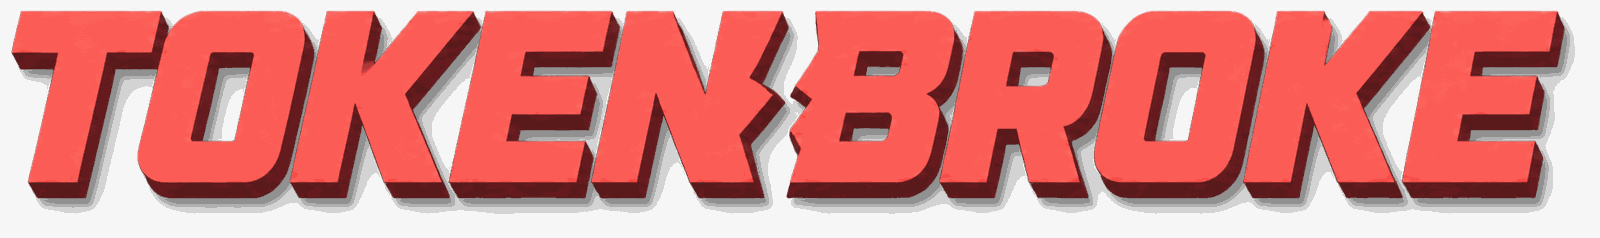
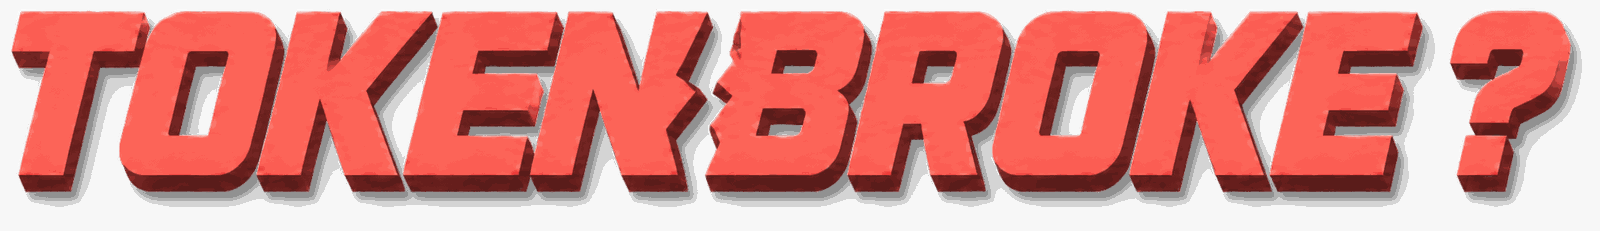
feat(web): jigsaw wordmark with baked question mark
- v2 artwork (crack + ? included) replaces the CSS-recreated question mark
- mark grown to min(96vw,52rem); overlap tuned so ARE YOU stays legible
- count line pulled snug under the title

diff --git a/apps/web/app/page.tsx b/apps/web/app/page.tsx
@@ -95,27 +95,11 @@ export default async function Home() {
               ARE YOU
             </span>
             {/* The wordmark rides over ARE YOU, tilted like a slapped-on sticker. */}
-            <span className="relative z-10 -mt-3 flex w-[min(90vw,46rem)] rotate-[-3.5deg] items-center sm:-mt-5">
-              <Image
-                src={wordmark}
-                alt="TOKENBROKE?"
-                priority
-                className="h-auto w-full min-w-0 flex-1"
-              />
-              <span
-                aria-hidden
-                className="display -ml-[0.14em] font-black leading-none"
-                style={{
-                  fontSize: "min(17vw, 8rem)",
-                  color: "#f85850",
-                  textShadow: "-0.05em 0.055em 0 #601818",
-                }}
-              >
-                ?
-              </span>
+            <span className="relative z-10 -mt-2 block w-[min(96vw,52rem)] rotate-[-3.5deg] sm:-mt-4">
+              <Image src={wordmark} alt="TOKENBROKE?" priority className="h-auto w-full" />
             </span>
           </h1>
-          <p className="display mt-5 flex flex-wrap items-center justify-center gap-x-3 gap-y-2 text-2xl font-black tracking-tight text-paper sm:text-4xl">
+          <p className="display mt-1 flex flex-wrap items-center justify-center gap-x-3 gap-y-2 text-2xl font-black tracking-tight text-paper sm:mt-2 sm:text-4xl">
             <FlapDigits
               value={movement.devsOnRecord.toLocaleString("en-US")}
               label={`${movement.devsOnRecord.toLocaleString("en-US")} developers on the record`}
